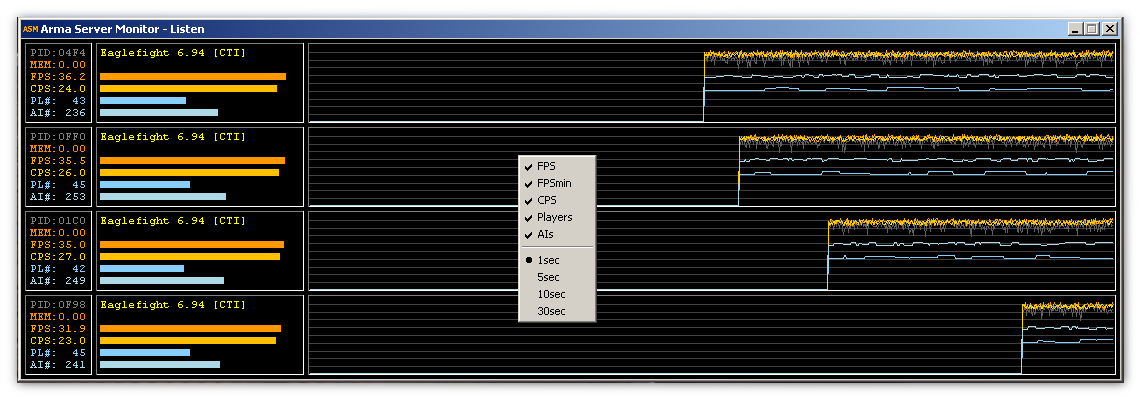
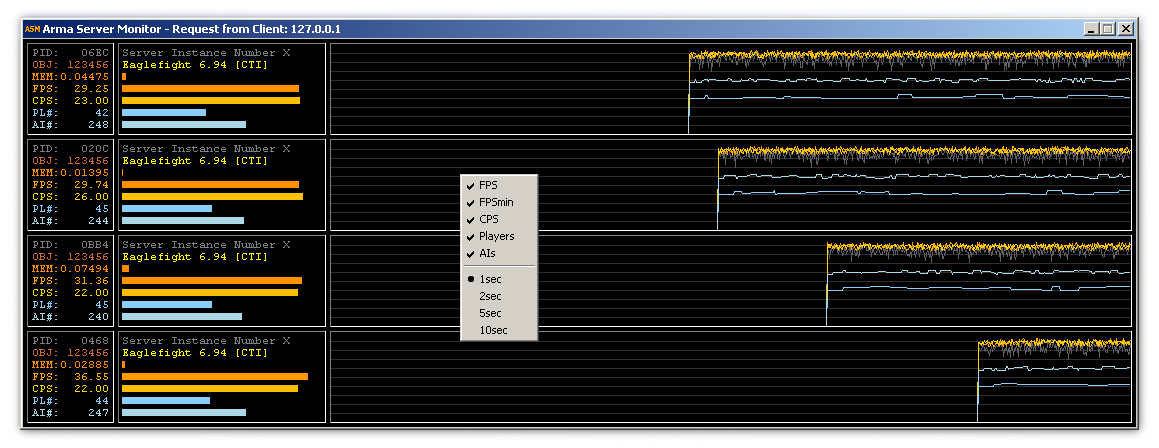
update added mission objects counter

diff --git a/README.md b/README.md
@@ -15,13 +15,14 @@ Propertys:
 
 Currently able to monitor the following values:
 
-	- PID (process ID of the server instance)
-	- MEM (Amount of allocated physical memory)
+	- PID process ID of the server instance
+	- OBJ number of all objects in current mission (missionObjects)
+	- MEM Amount of allocated physical memory
 	- FPS (on a server this means simulation cycles per second)
 	- FPSmin (the minimum FPS of the last 16 cycles, hist. graph only)
-	- CPS (Condition-evaluation per Second)
-	- PL# (Number of alive player units)
-	- AI# (Number of alive local AI units)
+	- CPS Condition-evaluation per Second
+	- PL# Number of alive player units
+	- AI# Number of alive local AI units
 	- Name of the currently played mission (missionName)
 	- Name of the instance profile (profileName)
 
@@ -90,3 +91,4 @@ Changelog:
 05.07.2013 history graph extd., better lag visualisation via FPSmin (popup menu)     
 09.07.2013 some performance related improvements          
 11.07.2013 profilName now displayed additional to missionName; forced=1 -> preInit=1 in cfgFunctions      
+15.07.2013 counter for all missionObjects added, helps to check if cleanup routines work                  
